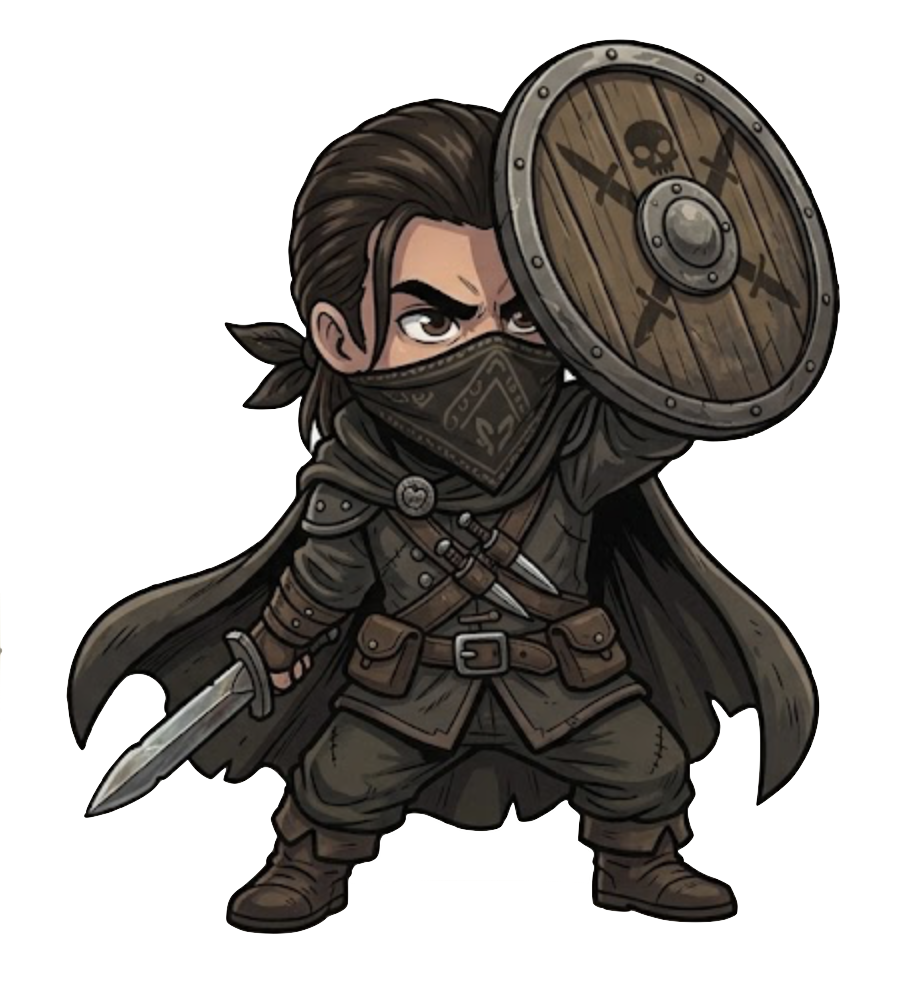
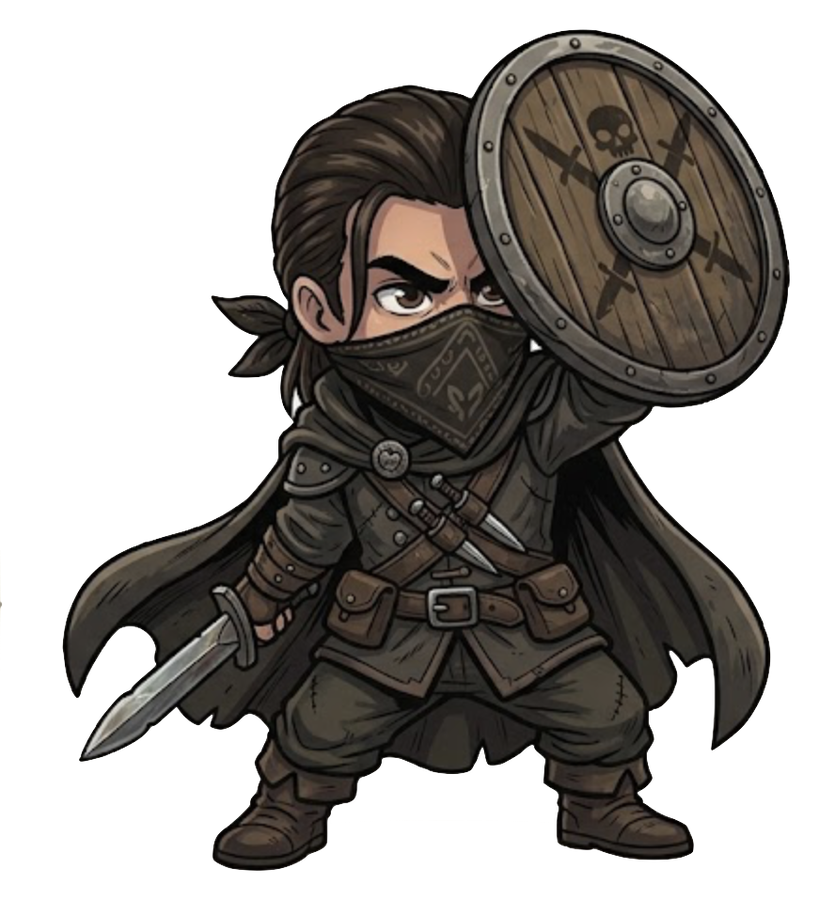
Add arena background, standardise sprite crops, countdown, and enemy reactions
- Add farm arena background image behind the sword fight
- Trim/resize all sprites to consistent framing and cap resolution
- Add 3-2-1-FIGHT countdown before combat starts
- Enemies now flinch into their injured pose when struck (attack, parry, riposte)
- Enemies occasionally block player attacks with their defend pose
- Orc alternates between attack/slash/thrust animations for variety

Changed region(s): [[0.0611, 0.0311, 0.9768, 0.9644]]

diff --git a/index.html b/index.html
@@ -36,13 +36,14 @@ h1,h2,h3{margin:0 0 8px}.muted{opacity:.7}
 .back{margin-bottom:12px}
 .combat-head{display:flex;align-items:center;gap:12px;margin-bottom:10px}
 .combat-head .back{margin:0}.combat-head h2{margin:0}
-.arena{flex:1;min-height:220px;background:linear-gradient(#acd7e6 0 55%,#6e9555 55% 72%,#c5a574 72%);touch-action:none;user-select:none}
+.arena{flex:1;min-height:220px;background:#acd7e6 url('assets/bg/arena.jpg') center bottom/cover no-repeat;touch-action:none;user-select:none}
 .arena .ground{position:absolute;left:5%;right:5%;bottom:15%;height:3px;background:rgba(42,37,34,.35)}
-.fighter{position:absolute;bottom:14%;height:69%;width:auto;max-width:44%;object-fit:contain;filter:drop-shadow(0 6px 0 rgba(42,37,34,.25));pointer-events:none;transition:transform .16s,left .16s,right .16s}
+.fighter{position:absolute;bottom:14%;height:69%;width:auto;max-width:50%;object-fit:contain;object-position:bottom;filter:drop-shadow(0 6px 0 rgba(42,37,34,.25));pointer-events:none;transition:transform .16s,left .16s,right .16s}
 .fighter.player{left:5%}.fighter.enemy{right:5%;transform:scaleX(-1)}
 .fighter.enemy.attackpose{transform:scaleX(-1) translateX(-18px) rotate(-3deg)}
 .fighter.player.attackpose{transform:translateX(24px) rotate(-3deg)}
 .fighter.player.defendpose{transform:translateX(-5px) scale(.97)}
+.fighter.enemy.defendpose{transform:scaleX(-1) translateX(5px) scale(.97)}
 #combat.active{display:flex;flex-direction:column;overflow:hidden}
 #combat.active .back,#combat.active .card,#combat.active .controls,#combat.active .combat-log{flex:none}
 .hp{position:absolute;top:12px;height:24px;width:40%;border:3px solid var(--ink);border-radius:20px;background:#fff6df;overflow:hidden;z-index:3}
@@ -50,6 +51,10 @@ h1,h2,h3{margin:0 0 8px}.muted{opacity:.7}
 .telegraph{position:absolute;left:50%;top:48px;transform:translateX(-50%);background:#fff6df;border:3px solid var(--ink);border-radius:15px;padding:7px 12px;font-weight:900;z-index:4;white-space:nowrap}
 .flash{animation:flash .18s 2}@keyframes flash{50%{filter:brightness(2) drop-shadow(0 6px 0 rgba(42,37,34,.25))}}
 .telegraph.warn{animation:pulseWarn .5s infinite}@keyframes pulseWarn{0%,100%{transform:translateX(-50%) scale(1)}50%{transform:translateX(-50%) scale(1.08)}}
+.countdown{position:absolute;inset:0;display:none;align-items:center;justify-content:center;z-index:9;pointer-events:none;font:900 76px Georgia,serif;color:#fff6df;-webkit-text-stroke:2px var(--ink);text-shadow:0 5px 0 var(--ink)}
+.countdown.show{display:flex}.countdown.fight{color:var(--gold);font-size:56px}
+.countdown.pop{animation:countPop .68s ease-out}
+@keyframes countPop{0%{transform:scale(.3);opacity:0}30%{transform:scale(1.2);opacity:1}50%{transform:scale(1)}85%{opacity:1}100%{opacity:0;transform:scale(1.05)}}
 .arena.shake{animation:shake .4s}@keyframes shake{10%,90%{transform:translateX(-3px)}20%,80%{transform:translateX(5px)}30%,50%,70%{transform:translateX(-7px)}40%,60%{transform:translateX(7px)}}
 .arena.victorypunch{animation:victoryPunch .5s ease-out}@keyframes victoryPunch{0%{transform:scale(1)}35%{transform:scale(1.035)}100%{transform:scale(1)}}
 .fighter.pop{animation:popIn .5s ease-out}@keyframes popIn{0%{transform:scale(.6);opacity:.4}60%{transform:scale(1.12)}100%{transform:scale(1)}}
@@ -101,6 +106,7 @@ h1,h2,h3{margin:0 0 8px}.muted{opacity:.7}
     <div class="hp player"><i id="php"></i><span>You</span></div>
     <div class="hp enemy"><i id="ehp"></i><span id="enemyName">Opponent</span></div>
     <div class="telegraph" id="telegraph">The opponent watches you...</div>
+    <div class="countdown" id="countdown"></div>
     <div class="ground"></div>
     <img id="player" class="fighter player" src="assets/knight/idle-front.png" alt="">
     <img id="enemy" class="fighter enemy" src="assets/knight/idle-front.png" alt="">
@@ -148,9 +154,9 @@ const PARRY_WINDOW_MS=260;
 let telegraphActive=false, telegraphStart=0, parriedThisAttack=false;
 
 const ENEMY_TYPES=[
- {name:'Bandit',hue:0,folder:'bandit',idle:'assets/bandit/idle.png',attack:'assets/bandit/attack.png',dmgMin:10,dmgMax:16,delayMin:1100,delayMax:2600,reactMs:750,minLevel:1},
- {name:'Orc Raider',hue:0,folder:'orc',idle:'assets/orc/idle.png',attack:'assets/orc/attack.png',dmgMin:14,dmgMax:20,delayMin:900,delayMax:2100,reactMs:600,minLevel:1},
- {name:'Knight Captain',hue:280,folder:'knight',idle:'assets/knight/idle-front.png',attack:'assets/knight/attack.png',dmgMin:17,dmgMax:24,delayMin:700,delayMax:1700,reactMs:480,minLevel:4}
+ {name:'Bandit',hue:0,folder:'bandit',idle:'assets/bandit/idle.png',attacks:['assets/bandit/attack.png'],dmgMin:10,dmgMax:16,delayMin:1100,delayMax:2600,reactMs:750,minLevel:1},
+ {name:'Orc Raider',hue:0,folder:'orc',idle:'assets/orc/idle.png',attacks:['assets/orc/attack.png','assets/orc/slash.png','assets/orc/thrust.png'],dmgMin:14,dmgMax:20,delayMin:900,delayMax:2100,reactMs:600,minLevel:1},
+ {name:'Knight Captain',hue:280,folder:'knight',idle:'assets/knight/idle-front.png',attacks:['assets/knight/attack.png'],dmgMin:17,dmgMax:24,delayMin:700,delayMax:1700,reactMs:480,minLevel:4}
 ];
 let currentEnemy=ENEMY_TYPES[0];
 
@@ -179,7 +185,7 @@ function updateShield(){
  if(!defending)btn.textContent=canDefend?'🛡 HOLD TO DEFEND':'🛡 SHIELD EXHAUSTED';
 }
 function reset(){
- hp=100;ehp=100;locked=false;defending=false;clearTimeout(timer);
+ hp=100;ehp=100;locked=true;defending=false;clearTimeout(timer);
  stamina=STAMINA_MAX;clearInterval(staminaTimer);
  staminaTimer=setInterval(()=>{if(!locked){stamina=Math.min(STAMINA_MAX,stamina+STAMINA_REGEN*0.1);updateStamina()}},100);
  updateStamina();
@@ -197,12 +203,26 @@ function reset(){
  const p=document.querySelector('#player'),e=document.querySelector('#enemy');
  p.src='assets/knight/idle-front.png';p.className='fighter player';
  e.src=currentEnemy.idle;e.className='fighter enemy';e.style.filter=currentEnemy.hue?'hue-rotate('+currentEnemy.hue+'deg)':'';
- schedule();
+ countdownThenStart();
+}
+function countdownThenStart(){
+ const el=document.querySelector('#countdown');
+ const steps=['3','2','1','FIGHT!'];
+ el.classList.add('show');
+ let i=0;
+ (function step(){
+  el.textContent=steps[i];
+  el.classList.toggle('fight',steps[i]==='FIGHT!');
+  el.classList.remove('pop');void el.offsetWidth;el.classList.add('pop');
+  i++;
+  if(i<steps.length){timer=setTimeout(step,650)}
+  else timer=setTimeout(()=>{el.classList.remove('show');locked=false;updateStamina();updateShield();schedule()},650);
+ })();
 }
 function schedule(){if(locked)return;timer=setTimeout(enemyAttack,currentEnemy.delayMin+Math.random()*(currentEnemy.delayMax-currentEnemy.delayMin))}
 function enemyAttack(){
  if(locked)return;const t=document.querySelector('#telegraph'),e=document.querySelector('#enemy');
- t.textContent='⚠ INCOMING ATTACK!';t.classList.add('warn');e.src=currentEnemy.attack;e.classList.add('attackpose');
+ t.textContent='⚠ INCOMING ATTACK!';t.classList.add('warn');e.src=currentEnemy.attacks[Math.floor(Math.random()*currentEnemy.attacks.length)];e.classList.add('attackpose');
  telegraphActive=true;telegraphStart=Date.now();parriedThisAttack=false;
  setTimeout(()=>{
   telegraphActive=false;
@@ -214,8 +234,11 @@ function enemyAttack(){
    t.textContent='🛡 BLOCKED!';document.querySelector('#log').textContent='Excellent! Your shield stopped the blow.';
    if(S.shield==='steel'&&Math.random()<0.4){
     let rd=8+Math.floor(Math.random()*6);ehp=Math.max(0,ehp-rd);document.querySelector('#ehp').style.width=ehp+'%';
-    t.textContent='⚡ RIPOSTE!';document.querySelector('#log').textContent='Your steel shield staggers them for '+rd+' bonus damage!';flash(e);popDamage(e,rd,'#3f6b3a');
+    t.textContent='⚡ RIPOSTE!';document.querySelector('#log').textContent='Your steel shield staggers them for '+rd+' bonus damage!';
+    e.src='assets/'+currentEnemy.folder+'/injured.png';e.className='fighter enemy';flash(e);popDamage(e,rd,'#3f6b3a');
     if(ehp<=0){finish(true);return}
+    timer=setTimeout(()=>{if(!locked){e.src=currentEnemy.idle;schedule()}},400);
+    return;
    }
   }
   else{
@@ -242,19 +265,29 @@ function attemptParry(){
  document.querySelector('#log').textContent='Perfect timing! The '+currentEnemy.name+' is stunned!';
  let rd=15+Math.floor(Math.random()*8);
  ehp=Math.max(0,ehp-rd);document.querySelector('#ehp').style.width=ehp+'%';
- e.src=currentEnemy.idle;e.className='fighter enemy stunned';flash(e);popDamage(e,rd,'#3f6b3a');
+ e.src='assets/'+currentEnemy.folder+'/injured.png';e.className='fighter enemy stunned';flash(e);popDamage(e,rd,'#3f6b3a');
  if(ehp<=0){finish(true);return}
- timer=setTimeout(()=>{e.classList.remove('stunned');if(!locked){document.querySelector('#log').textContent='The '+currentEnemy.name+' recovers...';schedule()}},1100);
+ timer=setTimeout(()=>{e.classList.remove('stunned');if(!locked){e.src=currentEnemy.idle;document.querySelector('#log').textContent='The '+currentEnemy.name+' recovers...';schedule()}},1100);
 }
+const ENEMY_BLOCK_CHANCE=0.2;
 function attack(){
  if(locked||stamina<STAMINA_COST)return;
  stamina-=STAMINA_COST;updateStamina();
  const p=document.querySelector('#player'),e=document.querySelector('#enemy');
  p.src='assets/knight/attack.png';p.classList.add('attackpose');
- setTimeout(()=>{p.src='assets/knight/idle-front.png';p.className='fighter player'},360);
+ setTimeout(()=>{if(!locked){p.src='assets/knight/idle-front.png';p.className='fighter player'}},360);
  let d=S.sword==='iron'?20+Math.floor(Math.random()*8):12+Math.floor(Math.random()*6);
+ const blocked=!e.classList.contains('stunned')&&Math.random()<ENEMY_BLOCK_CHANCE;
+ if(blocked){
+  d=Math.round(d*0.35);
+  e.src='assets/'+currentEnemy.folder+'/defend.png';e.className='fighter enemy defendpose';
+  document.querySelector('#telegraph').textContent='🛡 BLOCKED!';document.querySelector('#log').textContent='The '+currentEnemy.name+' blocks most of your strike!';
+ }else{
+  e.src='assets/'+currentEnemy.folder+'/injured.png';e.className='fighter enemy';
+  document.querySelector('#telegraph').textContent='⚔ '+d+' DAMAGE!';document.querySelector('#log').textContent='Your sword connects. Stay ready to defend.';
+ }
+ setTimeout(()=>{if(!locked&&!e.classList.contains('stunned')){e.src=currentEnemy.idle;e.className='fighter enemy'}},380);
  ehp=Math.max(0,ehp-d);document.querySelector('#ehp').style.width=ehp+'%';
- document.querySelector('#telegraph').textContent='⚔ '+d+' DAMAGE!';document.querySelector('#log').textContent='Your sword connects. Stay ready to defend.';
  flash(e);popDamage(e,d,'#3f6b3a');if(ehp<=0)finish(true)
 }
 function popDamage(el,amount,color){
@@ -277,7 +310,7 @@ function finish(win){
  document.querySelector('#attack').disabled=true;
  document.querySelector('#defend').disabled=true;
  const p=document.querySelector('#player'),e=document.querySelector('#enemy');
- p.classList.remove('attackpose','defendpose');e.classList.remove('attackpose');
+ p.classList.remove('attackpose','defendpose');e.classList.remove('attackpose','defendpose','stunned');
  p.src='assets/knight/'+(win?'victory':'defeated')+'.png';
  e.src='assets/'+currentEnemy.folder+'/'+(win?'defeated':'victory')+'.png';
  (win?p:e).classList.add('pop');
